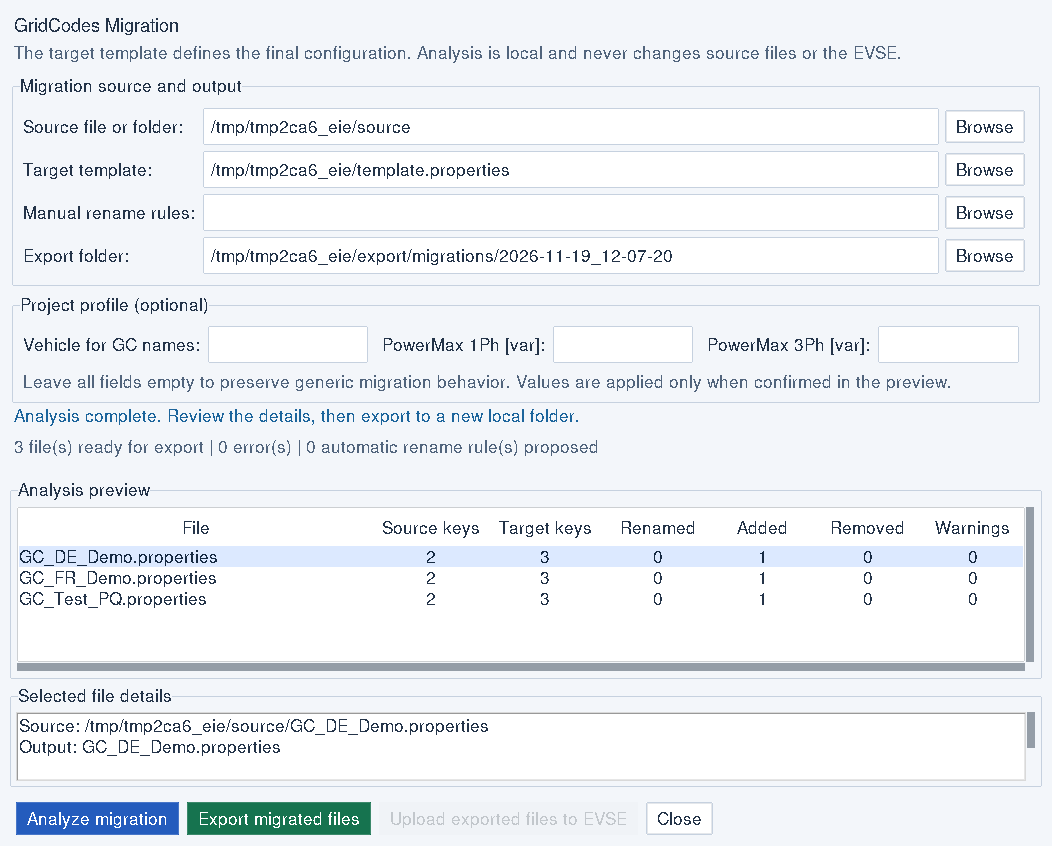
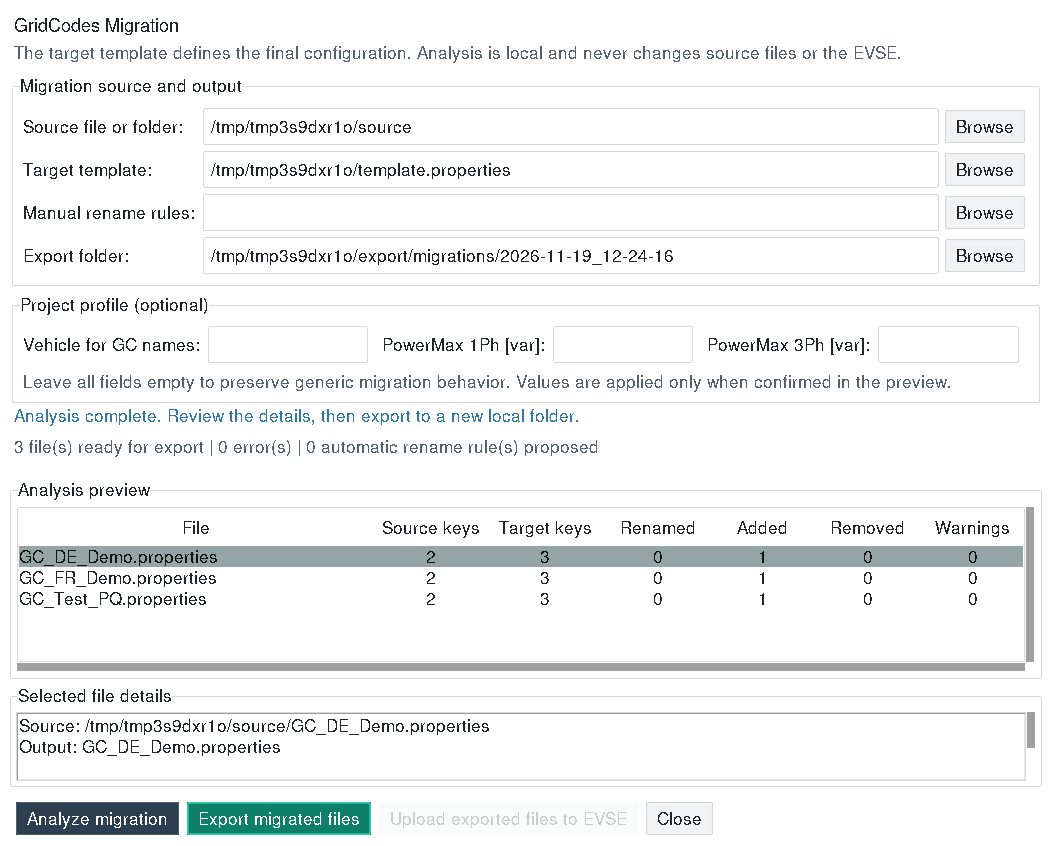
Restore classic Flatly and Darkly appearance while preserving window layout fixes

diff --git a/src/utils_ui.py b/src/utils_ui.py
@@ -7,34 +7,9 @@ from tkinter import ttk
 import tkinter.font as tkfont
 
 
-# Keep one restrained palette throughout RBM; layout and command behavior stay
-# independent of these colors. Menu names flatly/darkly remain compatible.
-RBM_PALETTES = {
-    "darkly": dict(primary="#2563eb", secondary="#3d5068", success="#15805d", info="#2873aa",
-                   warning="#f2b455", danger="#bc3f4b", light="#e8eef7", dark="#0b1220",
-                   bg="#151e2b", fg="#e6edf5", selectbg="#315f8d", selectfg="#ffffff",
-                   border="#35465c", inputfg="#e6edf5", inputbg="#202d3f", active="#2b405a"),
-    "flatly": dict(primary="#245cbd", secondary="#485c73", success="#16734f", info="#1d659c",
-                   warning="#edb34a", danger="#b93a46", light="#e9eef5", dark="#1e2d40",
-                   bg="#f3f6fa", fg="#243449", selectbg="#dce9ff", selectfg="#162a43",
-                   border="#c6d1df", inputfg="#243449", inputbg="#ffffff", active="#e1e9f3"),
-}
-
-
 def use_application_theme(style, theme_name):
-    if theme_name not in RBM_PALETTES:
-        style.theme_use(theme_name)
-        return
-    from ttkbootstrap.style import ThemeDefinition
-    import inspect
-    name = "rbm_dark" if theme_name == "darkly" else "rbm_light"
-    if name not in style.theme_names():
-        # ttkbootstrap 1.x uses themetype; 2.x calls the same option mode.
-        keyword = "mode" if "mode" in inspect.signature(ThemeDefinition).parameters else "themetype"
-        definition = ThemeDefinition(name=name, colors=RBM_PALETTES[theme_name],
-                                     **{keyword: "dark" if theme_name == "darkly" else "light"})
-        style.register_theme(definition)
-    style.theme_use(name)
+    """Honor the classic theme selected in View, without hidden remapping."""
+    style.theme_use(theme_name)
 
 
 def apply_window_icon(win):
@@ -72,12 +47,12 @@ def _font_family(widget, candidates, fallback):
 
 
 def ui_font(widget, size=10):
-    family = _font_family(widget, ("Segoe UI Variable Text", "Segoe UI", "Inter", "Noto Sans", "DejaVu Sans", "Helvetica"), "Helvetica")
+    family = _font_family(widget, ("Segoe UI", "Segoe UI Variable Text", "Inter", "Noto Sans", "DejaVu Sans", "Helvetica"), "Helvetica")
     return family, size, "normal"
 
 
 def mono_font(widget, size=10):
-    family = _font_family(widget, ("Cascadia Mono", "Cascadia Code", "Consolas", "DejaVu Sans Mono", "Liberation Mono", "Nimbus Mono L", "Courier"), "Courier")
+    family = _font_family(widget, ("Consolas", "Cascadia Mono", "Cascadia Code", "DejaVu Sans Mono", "Liberation Mono", "Nimbus Mono L", "Courier"), "Courier")
     return family, size, "normal"
 
 
@@ -130,16 +105,23 @@ def configure_readable_styles(style):
             foreground = "#" + "".join(f"{round(int(foreground[i:i+2], 16) * .85 + int(colors.fg[i:i+2], 16) * .15):02x}"
                                         for i in (1, 3, 5))
         style.configure(semantic + ".TLabel", foreground=foreground, background=colors.bg)
-    style.configure("TButton", background=colors.inputbg, foreground=colors.fg,
+    neutral = "#f1f3f5" if _relative_luminance(colors.bg) >= .2 else "#303030"
+    style.configure("TButton", background=neutral, foreground=colors.fg,
                     bordercolor=colors.border, padding=(10, 6))
     style.map("TButton", background=[("disabled", disabled_bg), ("pressed", colors.active), ("active", colors.active)],
               foreground=[("disabled", disabled_fg), ("!disabled", colors.fg)])
-    style.configure("TNotebook.Tab", padding=(6, 4))
-    style.map("TNotebook.Tab", background=[("selected", colors.primary)],
-              foreground=[("selected", "#ffffff")])
+    style.configure("TNotebook.Tab", padding=(6, 3))
+    selected_fg = "#ffffff" if _contrast("#ffffff", colors.selectbg) >= 4.5 else "#111111"
+    style.map("TNotebook.Tab", background=[("selected", colors.selectbg)],
+              foreground=[("selected", selected_fg)])
+    for name in ("TEntry", "TCombobox"):
+        style.configure(name, selectbackground=colors.selectbg, selectforeground=selected_fg)
+    for name in ("Treeview", "info.Treeview"):
+        style.configure(name, foreground=colors.fg)
+        style.map(name, foreground=[("disabled", disabled_fg), ("selected", selected_fg), ("!disabled", colors.fg)])
     # Secondary label colors from the stock dark theme are too close to its
     # surface. Use the regular text color for instructions and summaries.
-    muted = "#a7b6c9" if _relative_luminance(colors.bg) < .2 else "#52657d"
+    muted = "#b5b5b5" if _relative_luminance(colors.bg) < .2 else "#56616b"
     style.configure("secondary.TLabel", foreground=muted if _contrast(muted, colors.bg) >= 4.5 else colors.fg,
                     background=colors.bg)
 

diff --git a/tests/test_typography.py b/tests/test_typography.py
@@ -1,13 +1,13 @@
 """Font selection should be readable even when Windows fonts are absent."""
 import unittest
 from unittest.mock import Mock, patch
-from src.utils_ui import ui_font, mono_font
+from src.utils_ui import ui_font, mono_font, use_application_theme
 
 
 class TestTypography(unittest.TestCase):
-    def test_windows_variable_font_is_preferred_and_regular(self):
+    def test_classic_windows_font_is_preferred_and_regular(self):
         with patch('src.utils_ui.tkfont.families', return_value=('Segoe UI', 'Segoe UI Variable Text', 'Arial')):
-            self.assertEqual(ui_font(Mock()), ('Segoe UI Variable Text', 10, 'normal'))
+            self.assertEqual(ui_font(Mock()), ('Segoe UI', 10, 'normal'))
 
     def test_available_sans_font_is_used_without_windows_fonts(self):
         with patch('src.utils_ui.tkfont.families', return_value=('fixed', 'helvetica')):
@@ -15,8 +15,21 @@ class TestTypography(unittest.TestCase):
 
     def test_code_keeps_an_installed_monospace_font(self):
         with patch('src.utils_ui.tkfont.families', return_value=('Segoe UI', 'Consolas', 'Cascadia Mono')):
-            self.assertEqual(mono_font(Mock()), ('Cascadia Mono', 10, 'normal'))
+            self.assertEqual(mono_font(Mock()), ('Consolas', 10, 'normal'))
 
     def test_family_lookup_is_case_insensitive(self):
         with patch('src.utils_ui.tkfont.families', return_value=('segoe ui',)):
             self.assertEqual(ui_font(Mock(), 11), ('segoe ui', 11, 'normal'))
+
+
+    def test_variable_font_remains_a_fallback_when_classic_is_absent(self):
+        with patch('src.utils_ui.tkfont.families', return_value=('Segoe UI Variable Text',)):
+            self.assertEqual(ui_font(Mock()), ('Segoe UI Variable Text', 10, 'normal'))
+
+    def test_selected_classic_theme_is_not_remapped(self):
+        for name in ('flatly', 'darkly'):
+            with self.subTest(theme=name):
+                style = Mock()
+                use_application_theme(style, name)
+                style.theme_use.assert_called_once_with(name)
+                style.register_theme.assert_not_called()

diff --git a/scripts/check_window_layout.py b/scripts/check_window_layout.py
@@ -55,6 +55,7 @@ with patch("src.RemoteBorneManager.ttk.Window", return_value=r), patch(
 ):
     app = RemoteBorneApp(cfg)
 app._apply_theme(args.theme)
+assert app.style.theme_use() == args.theme, "Selected classic theme must not be remapped"
 app.ssh_queue.stop()
 app.ssh_queue = Mock()
 app.ssh_queue.execute.return_value = True
@@ -104,6 +105,22 @@ def audit(name, w):
         background = (item.cget("background") if "background" in item.keys() else "") or app.style.lookup(style, "background") or app.style.lookup("TFrame", "background")
         if foreground and background and _contrast(str(foreground), str(background)) < 4.5:
             bad.append("Low contrast: " + str(item.cget("text")))
+    for item in descendants(w):
+        kind = item.winfo_class()
+        if kind in ("Treeview", "TEntry", "TCombobox"):
+            style = str(item.cget("style")) or kind
+            if kind == "Treeview":
+                fg = app.style.lookup(style, "foreground", ("selected",))
+                bg = app.style.lookup(style, "background", ("selected",))
+            else:
+                fg = app.style.lookup(style, "selectforeground")
+                bg = app.style.lookup(style, "selectbackground")
+        elif kind in ("Text", "Listbox"):
+            fg, bg = str(item.cget("selectforeground")), str(item.cget("selectbackground"))
+        else:
+            continue
+        if fg and bg and _contrast(str(fg), str(bg)) < 4.5:
+            bad.append("Low selection contrast: " + str(item))
     if w is not r:
         for label in descendants(w):
             if label.winfo_class() != "TLabel":

diff --git a/src/RemoteBorneManager.py b/src/RemoteBorneManager.py
@@ -97,7 +97,7 @@ except ImportError:
         from src import test_sequence
         from src import gridcodes_migration_ui
 
-APP_VERSION = "17.0.0"
+APP_VERSION = "17.1.0"
 
 # Operational limits used by the main P/Q and CosPhi panels.  The target still
 # validates commands; Pn is an operator-side guard that can be read from the
@@ -6068,6 +6068,8 @@ class RemoteBorneApp:
             bg="#0d1117",
             fg="#c9d1d9",
             insertbackground="white",
+            selectbackground="#375a7f",
+            selectforeground="#ffffff",
             font=mono_font(self.root, 10),
             wrap="word",
             state="normal",
@@ -6765,7 +6767,7 @@ class RemoteBorneApp:
     def _show_about(self):
         self._popup_info(
             "About",
-            "Remote Borne Control Interface (RBM)\n"
+            f"Remote Borne Control Interface (RBM) — {APP_VERSION}\n"
             "Author: Nabil RAISSI\n"
             "Backend: plink.exe / pscp.exe\n"
             "SSH queue, SCP protection and integrated terminal included.",

diff --git a/src/open_help.py b/src/open_help.py
@@ -23,7 +23,7 @@ def open_help(parent=None):
 
     win = tk.Toplevel(parent)
     win.withdraw()
-    win.title("RBM V17.0.0 Help")
+    win.title("RBM V17.1.0 Help")
     win.geometry("1000x800")
     win.minsize(850, 600)
 
@@ -46,7 +46,7 @@ def open_help(parent=None):
 
     ttk.Label(
         top,
-        text="Remote Borne Control Interface V17.0.0 - User Guide",
+        text="Remote Borne Control Interface V17.1.0 - User Guide",
         font=ui_font(win, 11),
     ).pack(side="left")
 
@@ -313,7 +313,7 @@ def open_help(parent=None):
     text.insert("end", "\n15. VERSION\n", "section")
     text.insert(
         "end",
-        f"Remote Borne Control Interface V17.0.0\nHelp snapshot date: {today}\n\nAuthor: Nabil RAISSI\n",
+        f"Remote Borne Control Interface V17.1.0\nHelp snapshot date: {today}\n\nAuthor: Nabil RAISSI\n",
         "normal",
     )
 

diff --git a/tests/test_v17_regressions.py b/tests/test_v17_regressions.py
@@ -619,8 +619,8 @@ class TestSafetyRegressionGuards(unittest.TestCase):
         self.assertEqual(RemoteBorneApp.__module__, "src.RemoteBorneManager")
         source = (ROOT / "src" / "RemoteBorneManager.py").read_text(encoding="utf-8")
         help_source = (ROOT / "src" / "open_help.py").read_text(encoding="utf-8")
-        self.assertIn('APP_VERSION = "17.0.0"', source)
-        self.assertIn("V17.0.0", help_source)
+        self.assertIn('APP_VERSION = "17.1.0"', source)
+        self.assertIn("V17.1.0", help_source)
 
     def test_build_artifacts_match_the_v17_runtime(self):
         script = (ROOT / "build_rbm.ps1").read_text(encoding="utf-8")

diff --git a/docs/previews/README.md b/docs/previews/README.md
@@ -1,11 +1,11 @@
 # Aperçus de l’interface RBM
 
-Captures réelles de l’application en thème sombre, avec des données d’exemple
+Captures réelles de l’application en thèmes classiques Flatly et Darkly, avec des données d’exemple
 et sans connexion à une borne. Elles ont été prises sous Linux : la barre de
 titre, l’icône et les polices natives Windows peuvent différer.
 
 La typographie utilise une police sans empattements installée sur le PC
-(Segoe UI Variable Text ou Segoe UI sous Windows), avec des titres sans gras.
+(Segoe UI en priorité sous Windows), avec des titres sans gras.
 Les configurations texte utilisent cette même police ; les scripts et logs
 conservent une police monospace. Aucune installation de police supplémentaire
 n’est nécessaire.
@@ -27,3 +27,7 @@ Titres secondaires compacts et zones de résultats réservées :
 ![Energy Manager](energy-light.png)
 
 ![Migration](migration-light.png)
+
+La version 17.1 rétablit les palettes classiques sélectionnées dans View → Theme,
+sans substitution par une palette personnalisée. Les zones réservées au tableau,
+à la progression, au journal et aux résultats restent conservées.
